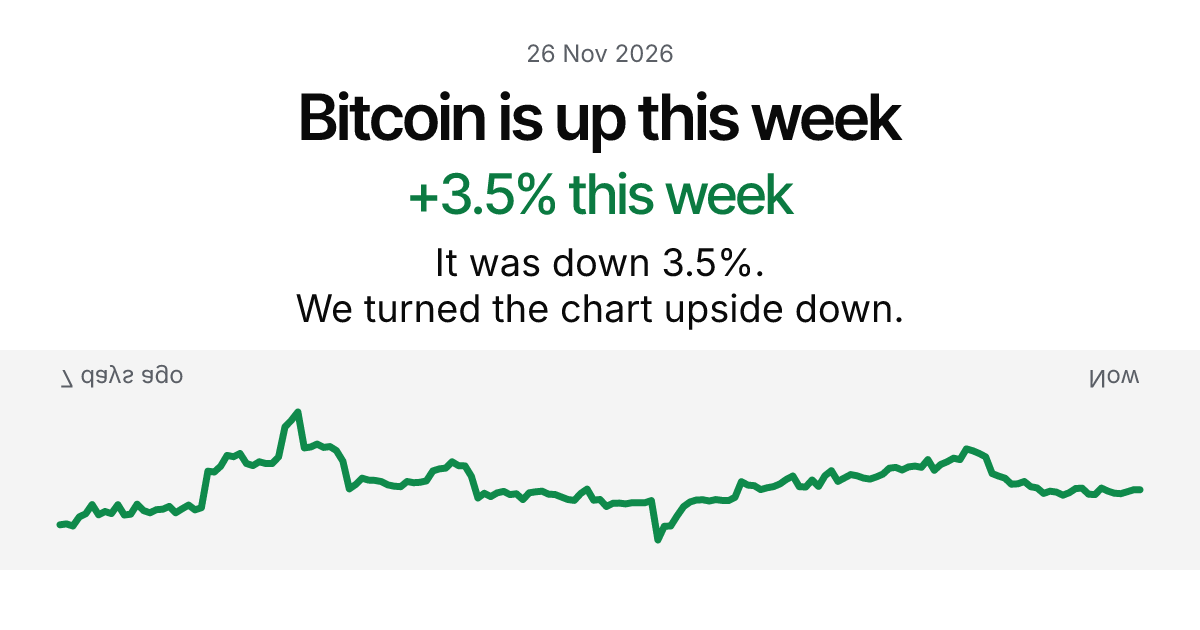
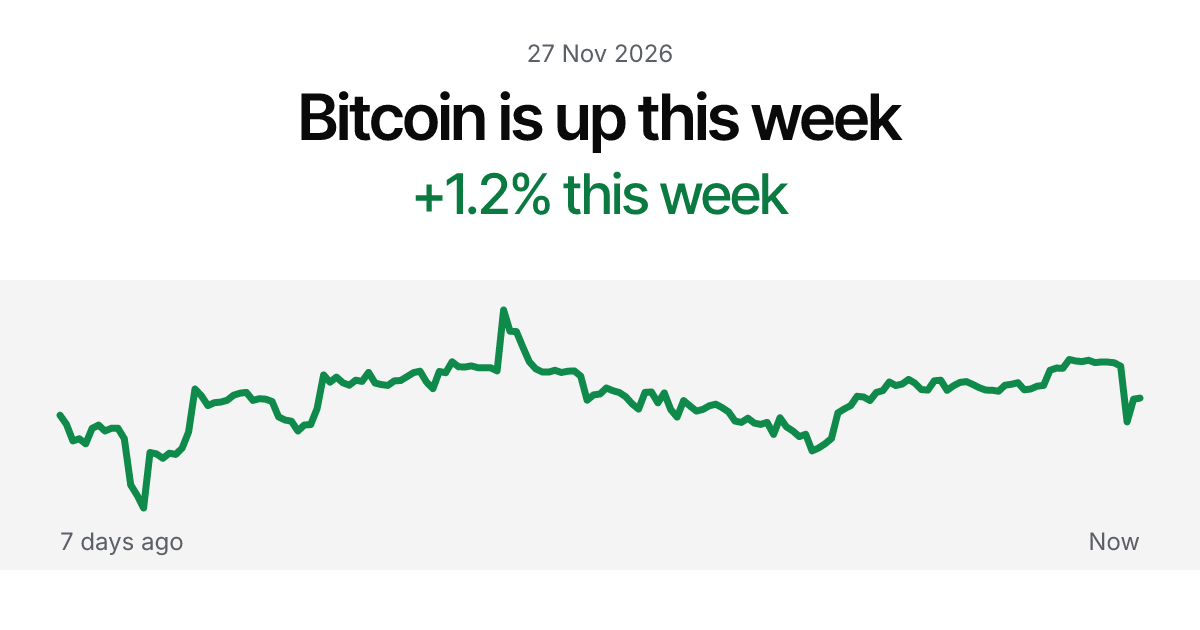
OG: +1.2% 20261127

diff --git a/index.html b/index.html
@@ -15,13 +15,13 @@
 <meta property="og:title" content="Bitcoin is up">
 <meta property="og:description" content="Bitcoin is up this week. Every week. Guaranteed.">
 <meta property="og:url" content="https://bitcoinisup.com/">
-<meta property="og:image" content="https://bitcoinisup.com/og.png?v=96abde7a">
+<meta property="og:image" content="https://bitcoinisup.com/og.png?v=b3318bd9">
 <meta property="og:image:type" content="image/png">
 <meta property="og:image:width" content="1200">
 <meta property="og:image:height" content="630">
-<meta property="og:image:alt" content="Bitcoin was down 3.5% this week. The 7-day chart is turned upside down so it looks up.">
+<meta property="og:image:alt" content="Bitcoin is up 1.2% this week. 7-day price chart.">
 <meta name="twitter:card" content="summary_large_image">
-<meta name="twitter:image:alt" content="Bitcoin was down 3.5% this week. The 7-day chart is turned upside down so it looks up.">
+<meta name="twitter:image:alt" content="Bitcoin is up 1.2% this week. 7-day price chart.">
 <link rel="preconnect" href="https://fonts.googleapis.com">
 <link rel="preconnect" href="https://fonts.gstatic.com" crossorigin>
 <link href="https://fonts.googleapis.com/css2?family=Inter:wght@400;500;600&family=Inter+Tight:wght@500;600&display=swap" rel="stylesheet">
